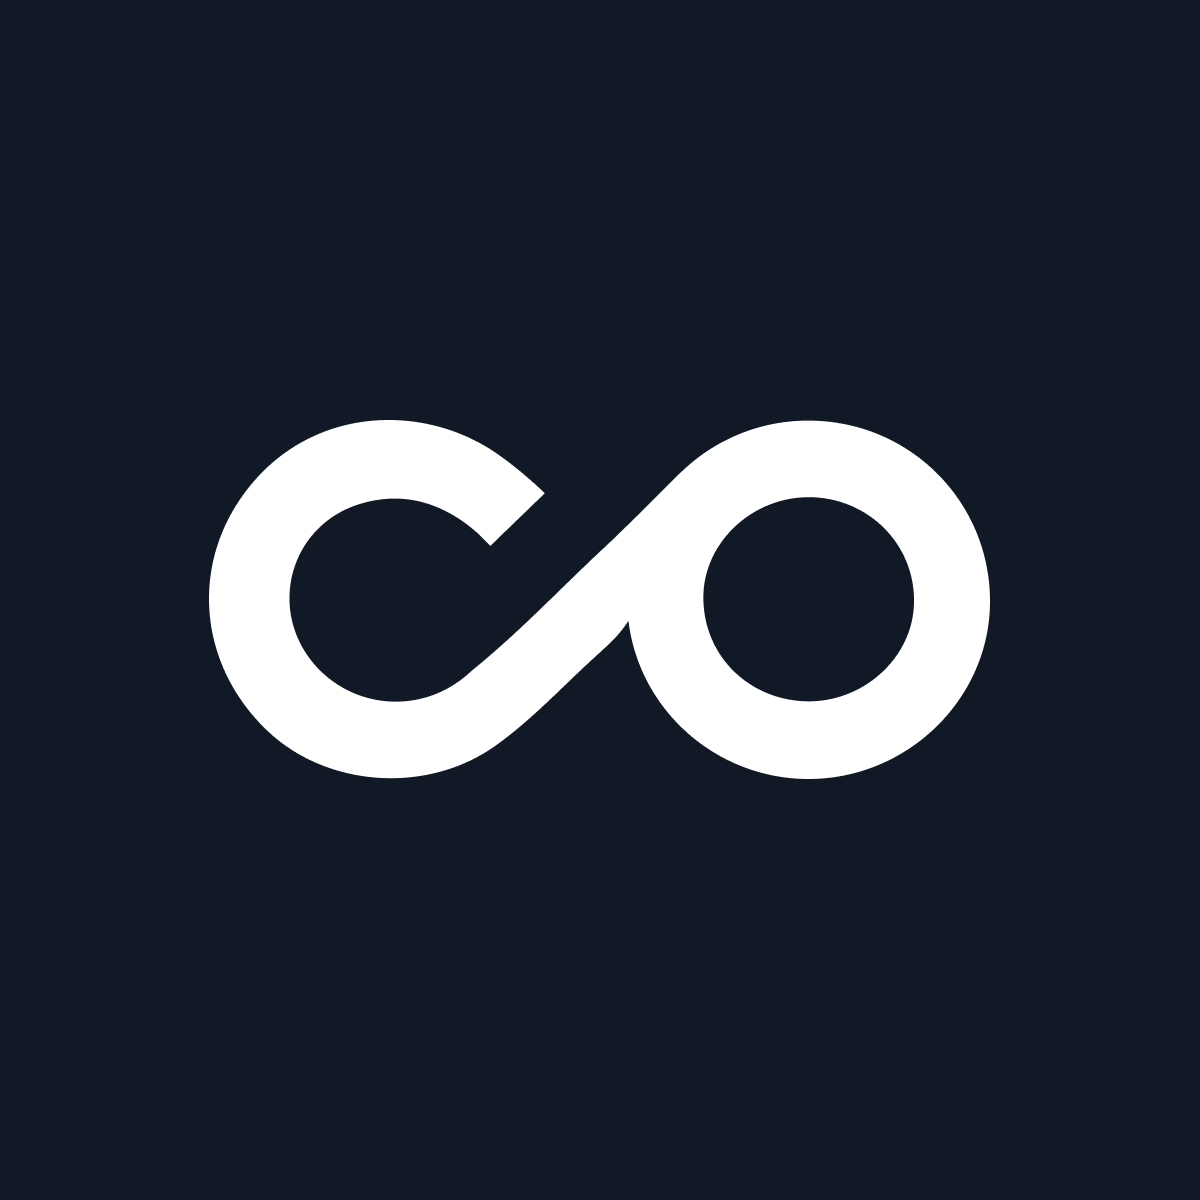
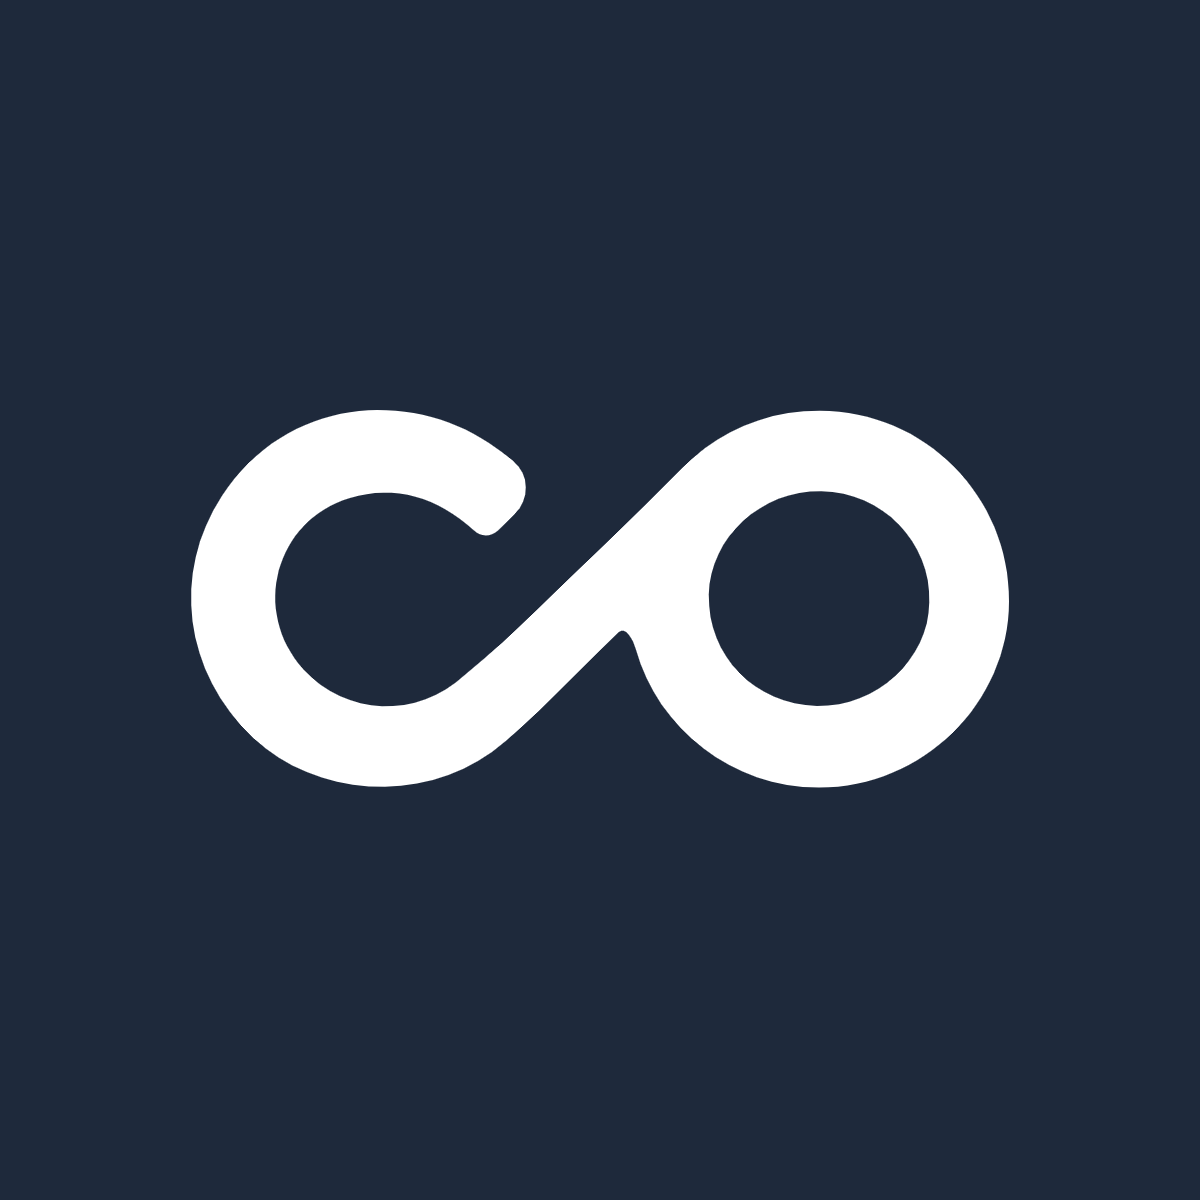
feat: update Noloco page to latest description (#37)

diff --git a/src/data/projects/noloco.js b/src/data/projects/noloco.js
@@ -4,40 +4,80 @@ import img from '../../imgs/noloco.png';
 import coverImg from '../../imgs/noloco-cover.png';
 
 export default {
-  title: 'noloco.io',
-  subTitle: 'Build truly custom web apps.\n' +
-    'Without Code.',
+  title: 'Noloco',
+  subTitle: 'Build internal tools for your team without code',
   path: 'noloco',
   href: 'https://noloco.io',
   img,
   coverImg,
-  color: '#111826',
+  color: '#1e293b',
   createdAt: '2021-01-01',
   category: WEB_DEVELOPMENT,
   body: () => (
     <div>
       <h3>
         <em>
-          The complete no-code solution for professionals.
+          Easily create internal tools in minutes that perfectly fit your
+          workflows without writing a line of code..
         </em>
       </h3>
       <p>
-        Developing a web app is hard - but it doesn’t have to be.
+        Noloco provides everything your team needs to build internal tools.
+        There's no code and no problem.
         <br />
-        Noloco looks after all the boring parts like authentication and API creation so that you can focus on what matters most - making your project unique.
       </p>
-      <h4>Your data, your way</h4>
-      <p>Model your data however you want. Easily add collections and define relationships between them all on our built-in database. Import your data or start from scratch with dedicated client CMS functionality.</p>
+      <h4>Instant apps from your data</h4>
+      <p>
+        Once you connect your data source like Airtable, PostgreSQL, MySQL or
+        Google Sheets, Noloco instantly builds an app for you that enables your
+        team to easily view, update and add new data.
+      </p>
+      <p>
+        From there, you can easily customise your app with our drag and drop
+        editor without writing a line of code.
+      </p>
 
-      <h4>Dream it, design it</h4>
-      <p>You're in full control of your design. Start from scratch or drag in ready-made blocks. With our responsive builder, you can ensure that your app is pixel perfect across all screen sizes.</p>
+      <h4>For non-developers</h4>
+      <p>
+        Noloco is the first no-code builder designed from the ground up for
+        non-developers. No writing complex queries.
+      </p>
+      <p>
+        Free up your engineering resources and move faster by enabling your
+        Operations, Growth & Support teams to build the tools they need on their
+        own.
+      </p>
 
-      <h4>Supercharge your app with actions & automations</h4>
-      <p>Allow your users to trigger complex workflows that can create and update data, hit external APIs, send emails or trigger third-party automations like Zapier or Integromat.</p>
+      <h4>What can I build with Noloco?</h4>
+      <p>
+        Our customers have built hundreds of internal tools with Noloco
+        including backoffice tools, project management tools & custom CRMS. All
+        without writing a single line of code.
+      </p>
 
-      <h4>Deploy your app in one click</h4>
-      <p>Your apps are hosted on the Noloco cloud. Preview changes in your personal sandbox before launching. And when you’re ready to go, connect your custom domain to showcase your project.</p>
-
+      <h4>Create internal tools from your data</h4>
+      <p>
+        Instantly build internal tools from your data in Postgres, Airtable and
+        Google Sheets. Use our Zapier and Make integrations to send data between
+        Noloco and all your other software tools.
+      </p>
+      <h4>Why use Noloco?</h4>
+      <p>
+        Noloco is a fit if you want to:
+        <ul>
+          <li>
+            Give your team access to data for them to analyse, view or update{' '}
+          </li>
+          <li>
+            Keep tight control over user access and who can see and update
+            certain data
+          </li>
+          <li>
+            Build internal tools without having to hire developers or distract
+            your developers from building customer-facing products
+          </li>
+        </ul>
+      </p>
       <br />
       <a
         className="button"

diff --git a/public/index.html b/public/index.html
@@ -3,17 +3,31 @@
   <head>
     <meta charset="utf-8" />
 
-    <meta 
-      name="description" 
-      content="Hi I'm Darragh Mc Kay, I'm a software engineer on the Inscribe team in Dublin, Ireland.
-        I spend most of my time coding and working on my latest project. I work mostly on the web, developing websites.
-        Please checkout my porfolio and my github account!" 
+    <meta
+      name="description"
+      content="Hi I'm Darragh Mc Kay, I'm the CTO of Noloco, and a software engineer by trade, based in Dublin, Ireland.
+        I spend most of my time coding and working on my latest project or startup. I work mostly on the web, developing webapps.
+        Please checkout my porfolio and my github account!"
     />
     <link rel="icon" href="%PUBLIC_URL%/favicon.ico" />
-    <link rel="apple-touch-icon" sizes="180x180" href="%PUBLIC_URL%/apple-touch-icon.png">
-    <link rel="icon" type="image/png" sizes="32x32" href="%PUBLIC_URL%/favicon-32x32.png">
-    <link rel="icon" type="image/png" sizes="16x16" href="%PUBLIC_URL%/favicon-16x16.png">
-    <link rel="manifest" href="%PUBLIC_URL%/site.webmanifest">
+    <link
+      rel="apple-touch-icon"
+      sizes="180x180"
+      href="%PUBLIC_URL%/apple-touch-icon.png"
+    />
+    <link
+      rel="icon"
+      type="image/png"
+      sizes="32x32"
+      href="%PUBLIC_URL%/favicon-32x32.png"
+    />
+    <link
+      rel="icon"
+      type="image/png"
+      sizes="16x16"
+      href="%PUBLIC_URL%/favicon-16x16.png"
+    />
+    <link rel="manifest" href="%PUBLIC_URL%/site.webmanifest" />
     <meta name="viewport" content="width=device-width, initial-scale=1" />
     <meta name="theme-color" content="#000000" />
     <link rel="apple-touch-icon" href="logo192.png" />

diff --git a/src/components/Intro.js b/src/components/Intro.js
@@ -1,28 +1,28 @@
-import React, { useEffect, useState } from 'react';
+import React, { useState } from 'react';
 import { FontAwesomeIcon } from '@fortawesome/react-fontawesome';
 import {
   faCode,
-  faBicycle,
   faGraduationCap,
+  faRunning,
 } from '@fortawesome/free-solid-svg-icons';
 import RectText from './RectText';
 import { useInterval } from '../utils/hooks';
 
 const introItems = [
   {
-    icon: faGraduationCap,
-    title: 'Computer Engineering',
-    subTitle: 'Trinity College Dublin',
+    icon: faCode,
+    title: 'CTO',
+    subTitle: 'Noloco, Dublin',
   },
   {
-    icon: faBicycle,
-    title: 'Casual Cyclist',
+    icon: faRunning,
+    title: 'Casual Runner',
     subTitle: '& Gym-goer',
   },
   {
-    icon: faCode,
-    title: 'Software Engineer',
-    subTitle: 'Inscribe, Dublin',
+    icon: faGraduationCap,
+    title: 'Computer Engineering',
+    subTitle: 'Trinity College Dublin',
   },
 ];
 

diff --git a/src/data/blog/RektText.js b/src/data/blog/RektText.js
@@ -45,7 +45,7 @@ const RektText = () => {
         <a href="https://oisinmoran.com" tagret="_blank">
           Oisin Moran
         </a>
-        <span>, my room-mate, and coleague at</span>
+        <span>, my room-mate, and (ex-)coleague at</span>
         <a href="https://inscribe.ai" target="_blank">
           Inscribe
         </a>

diff --git a/src/data/experience/work.js b/src/data/experience/work.js
@@ -6,7 +6,7 @@ export default [
   },
   {
     title: 'Fullstack Software Engineer',
-    subTitle: 'Inscribe AI, Dublin',
+    subTitle: 'Noloco AI, Dublin',
     dateRange: 'January 2020 - June 2021',
   },
   {
